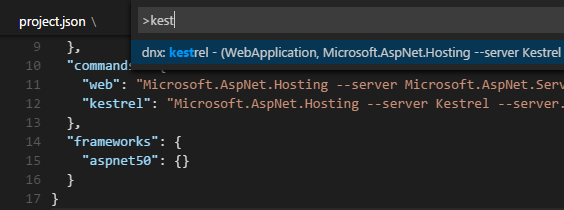
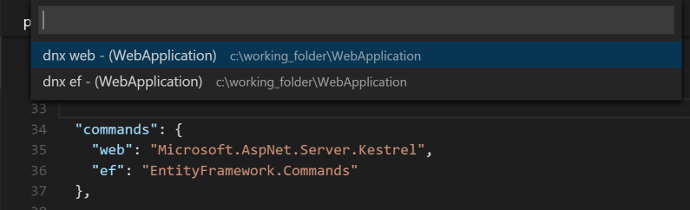
Update Commands with Ease section of Runtimes/ASP.NET 5 page

diff --git a/docs/runtimes/ASPnet5.md b/docs/runtimes/ASPnet5.md
@@ -73,17 +73,21 @@ When the status bar shows the project information it’s a good time to get goin
 
 ## Commands with Ease
 
-The `project.json` file allows you to define commands for your projects. Those commands are understood by Visual Studio Code and they will show up in the Command Palette.
+The `project.json` file allows you to define commands for your projects. Those commands are understood by Visual Studio Code, and they will show up in the Command Palette.
 
-In our application there are 4 commands defined:
+There are 2 commands defined in our application:
 
 ![DNX commands](images/ASPnet5/commands.png)
 
-To execute these commands you could run them from the terminal, but a faster way is to open the Command Palette (`kb(workbench.action.showCommands)`) in VS Code, start typing the name of the command you want to run, and hit Enter.
+To execute these commands you could run them from the terminal, but a faster way is to open the Command Palette (`kb(workbench.action.showCommands)`) in VS Code, type `dnx`, and select the `dnx: Run Command` option:
+
+![DNX run commands in Command Palette](images/ASPnet5/dnxruncommand.png)
+
+Next, select the option corresponding to the DNX command to be executed:
 
 ![DNX commands in palette](images/ASPnet5/dnxcommandpalette.png)
 
-In this walkthrough we want to run the website, so the command we want to run is `dnx: kestrel`. VS Code understands the configured DNX runtime and will open a console window, and execute the command in there.
+In this walkthrough we want to run the website, so the command we want to run is `dnx: web`. VS Code understands the configured DNX runtime and will open a console window, and execute the command in there.
 
 Open your favorite browser and browse to `http://localhost:5000` to browse the site we created.
 
